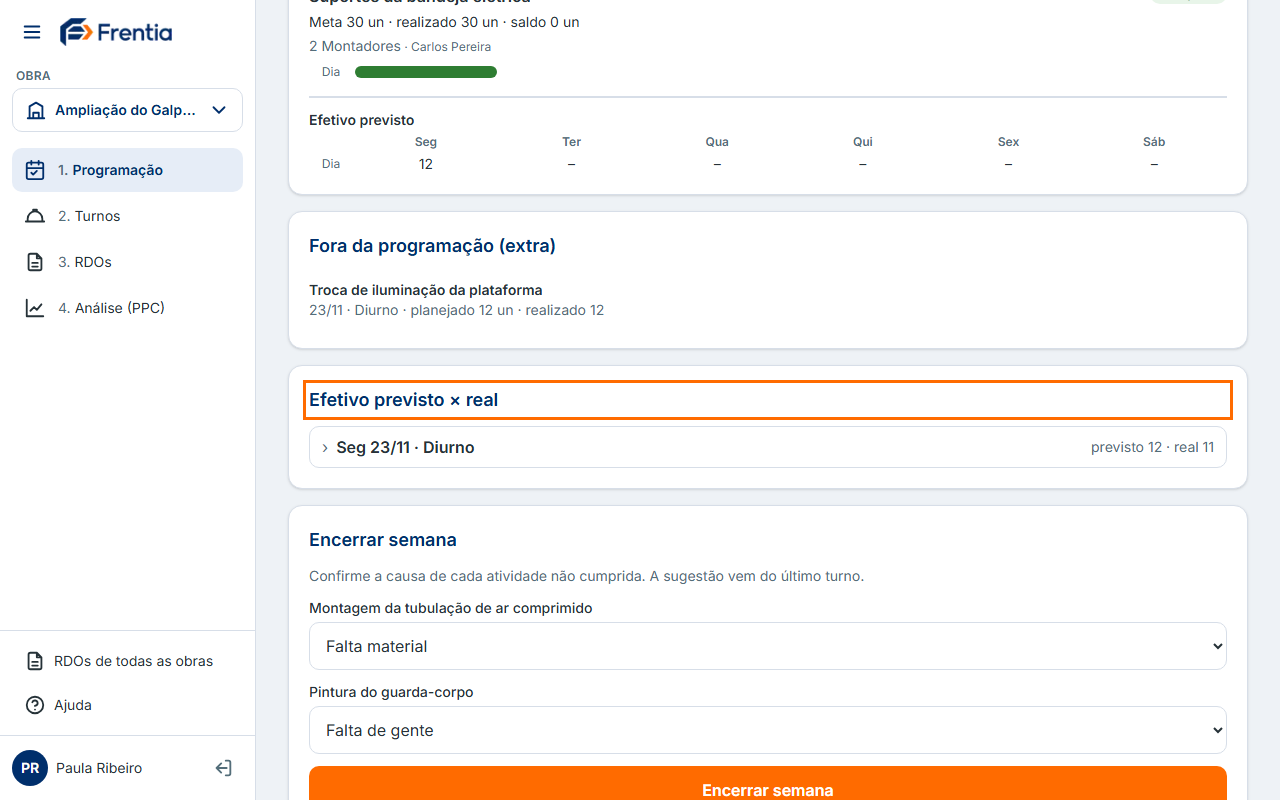
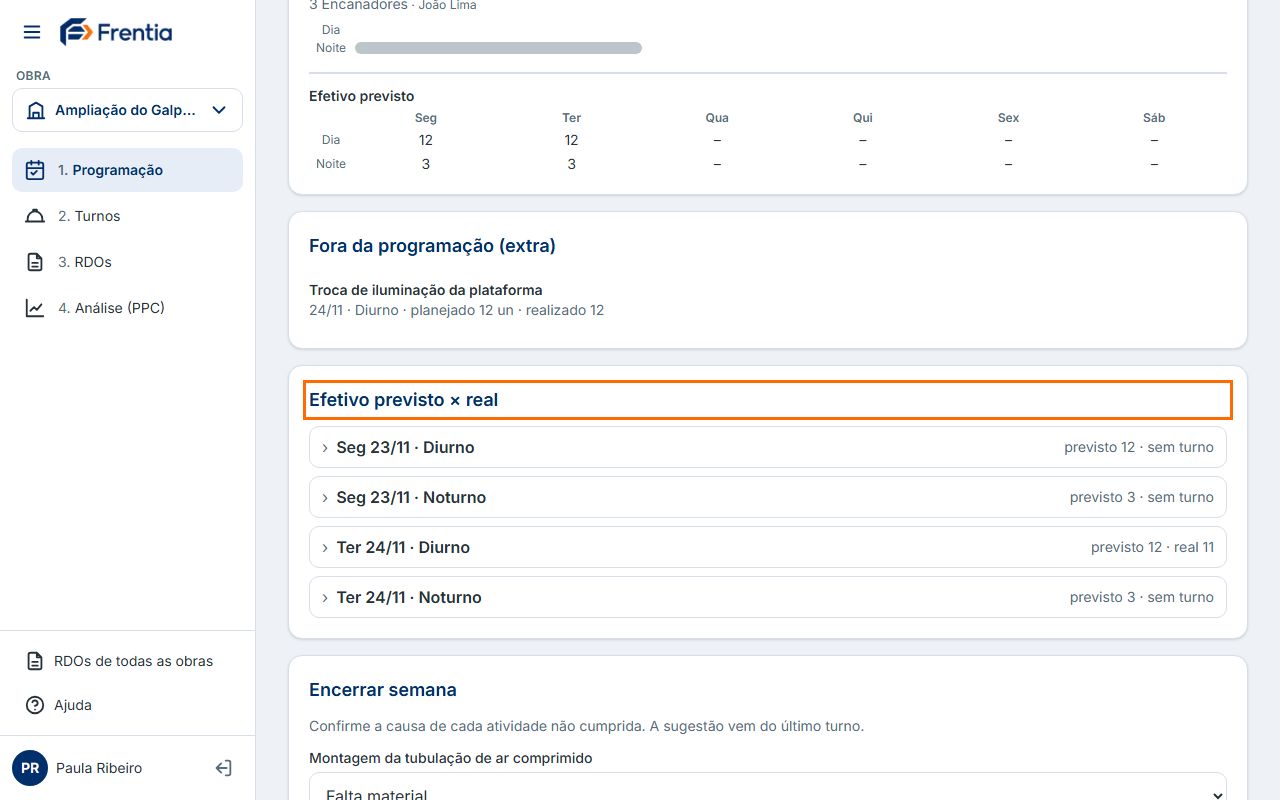
docs(manual): captura de atividades em sequência; item 19 feito no backlog

diff --git a/docs/backlog.md b/docs/backlog.md
@@ -108,7 +108,7 @@ com limite de gasto, e vira recurso do plano pago quando a cobrança existir.
 18. **Análise** — começa 7 semanas antes da obra existir (começar na 1ª semana da obra); selo "provisório" também no
     cartão principal; causas sem separar externas/internas. [P2]
 
-19. **Vincular atividades em sequência (débito do dia passa para a noite)** — ex.: "Montagem de Andaime" 12 m
+19. ✅ **Feito em 2026-11-24** — **Vincular atividades em sequência (débito do dia passa para a noite)** — ex.: "Montagem de Andaime" 12 m
     Seg diurno (Luis) + 12 m Seg noturno (Alberto) são o mesmo andaime. Opção de vincular ("Continua de…") para o
     saldo seguir: faltou 4 m no dia → noite com meta 16 m; sobrou 3 m → noite com 9 m. Decidido em 2026-11-17:
     - Atividades vinculadas formam **uma sequência na ordem dos turnos** (Seg D, Seg N, Ter D, Ter N…). Meta de
